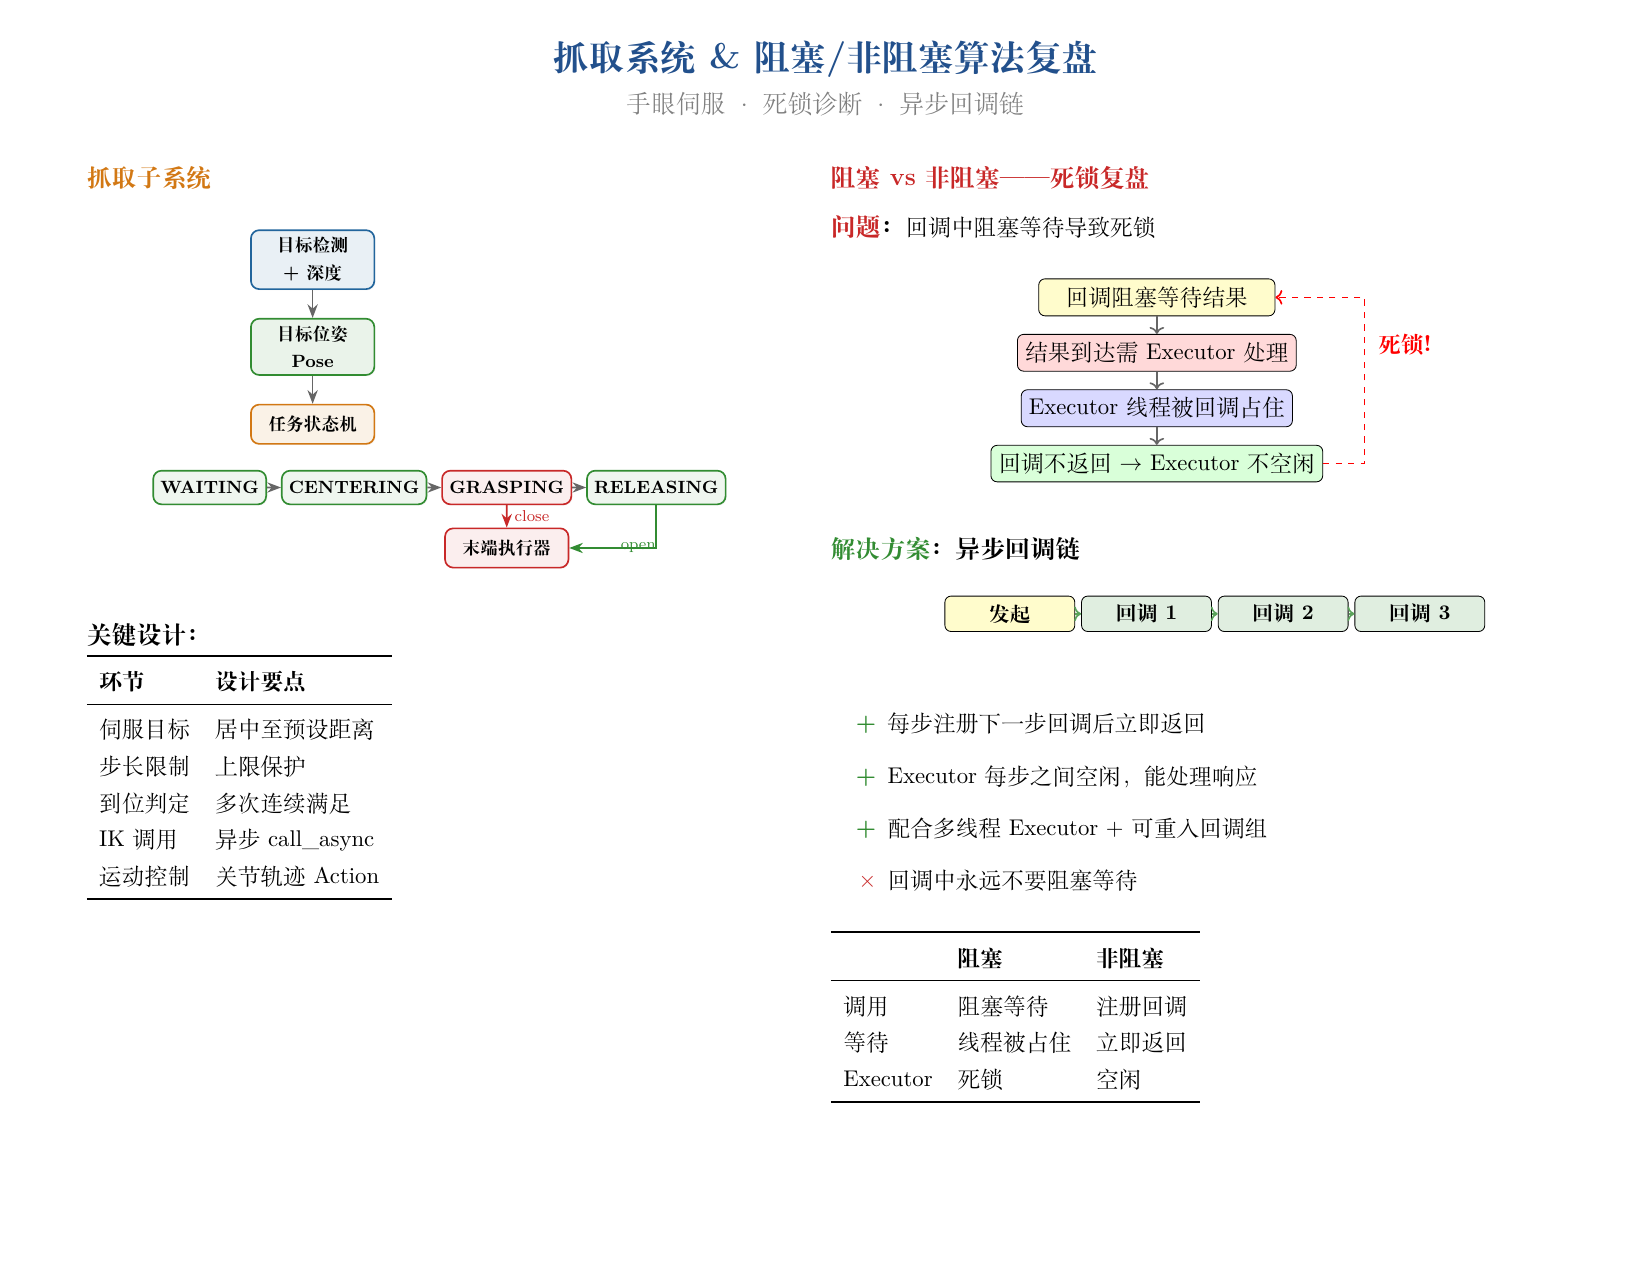
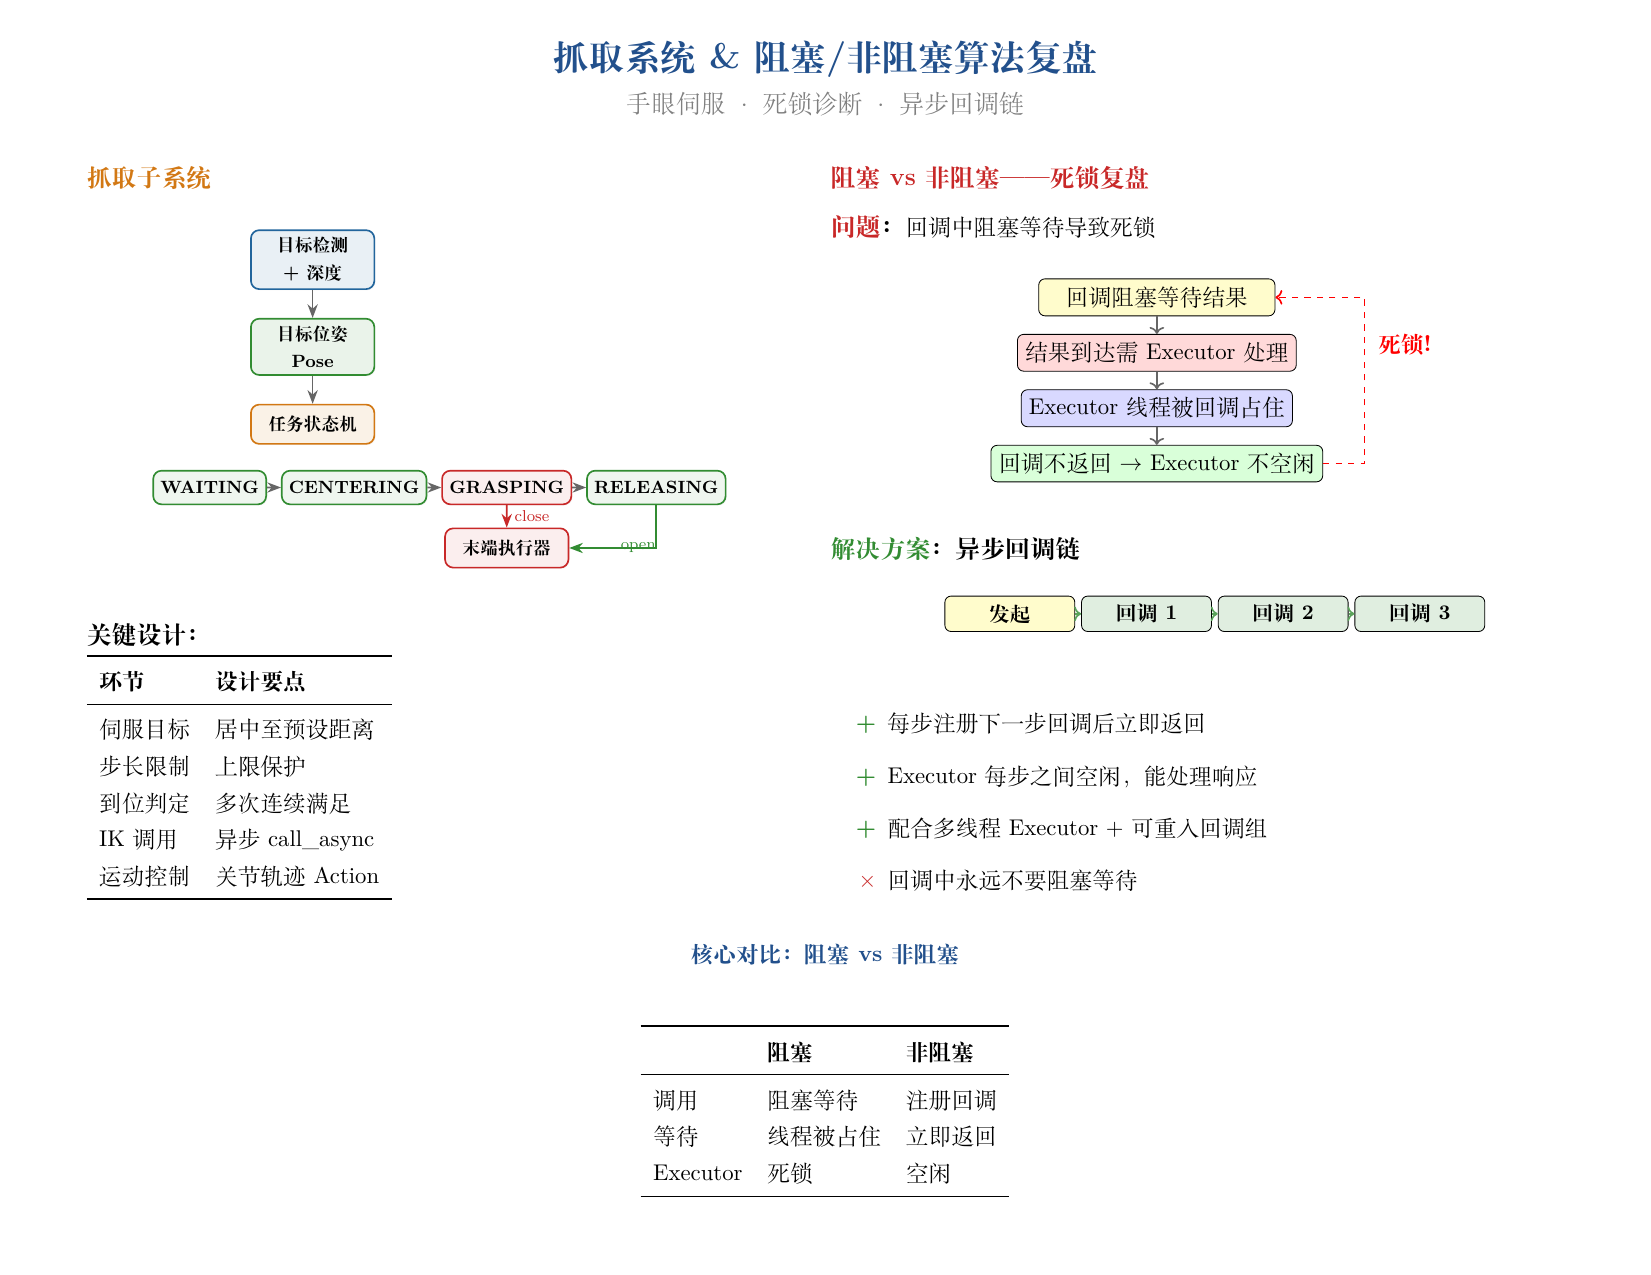
Polish page 3: move comparison table to full-width bottom
Reduce right-column overload (was 6 elements vs left's 2) by extracting
the blocking vs non-blocking comparison table to a full-width row at
the bottom. Mirrors page 2's lower-table pattern for visual consistency
across pages.

Changed region(s): [[0.4016, 0.7341, 0.6487, 0.9482], [0.6487, 0.7341, 0.7105, 0.8259], [0.4016, 0.8565, 0.4325, 0.9482]]

diff --git a/examples/crab-inspection/group_meeting_6_13.tex b/examples/crab-inspection/group_meeting_6_13.tex
@@ -410,9 +410,17 @@ IK 调用 & 异步 call\_async \\
   \item[\textcolor{accent}{\textbf{$\times$}}] 回调中永远不要阻塞等待
 \end{itemize}
 
-\vspace{6pt}
+\end{minipage}
 
-\normalsize
+\vspace{8pt}
+
+% --- 全宽底部:阻塞 vs 非阻塞核心对比 (与 page 2 下方布局呼应) ---
+\begin{center}
+{\normalsize\bfseries\textcolor{mainblue}{核心对比：阻塞 vs 非阻塞}}
+\end{center}
+
+\vspace{4pt}
+\begin{center}
 \begin{tabular}{lll}
 \toprule
 & \textbf{阻塞} & \textbf{非阻塞} \\
@@ -422,7 +430,6 @@ IK 调用 & 异步 call\_async \\
 Executor & 死锁 & 空闲 \\
 \bottomrule
 \end{tabular}
-
-\end{minipage}
+\end{center}
 
 \end{document}